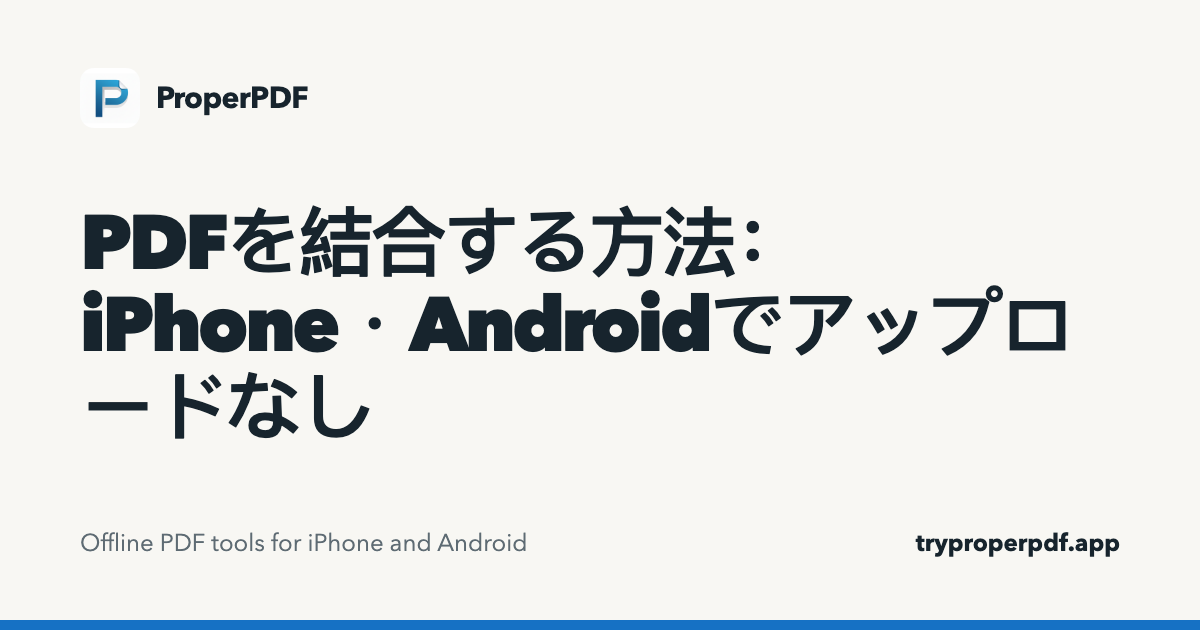
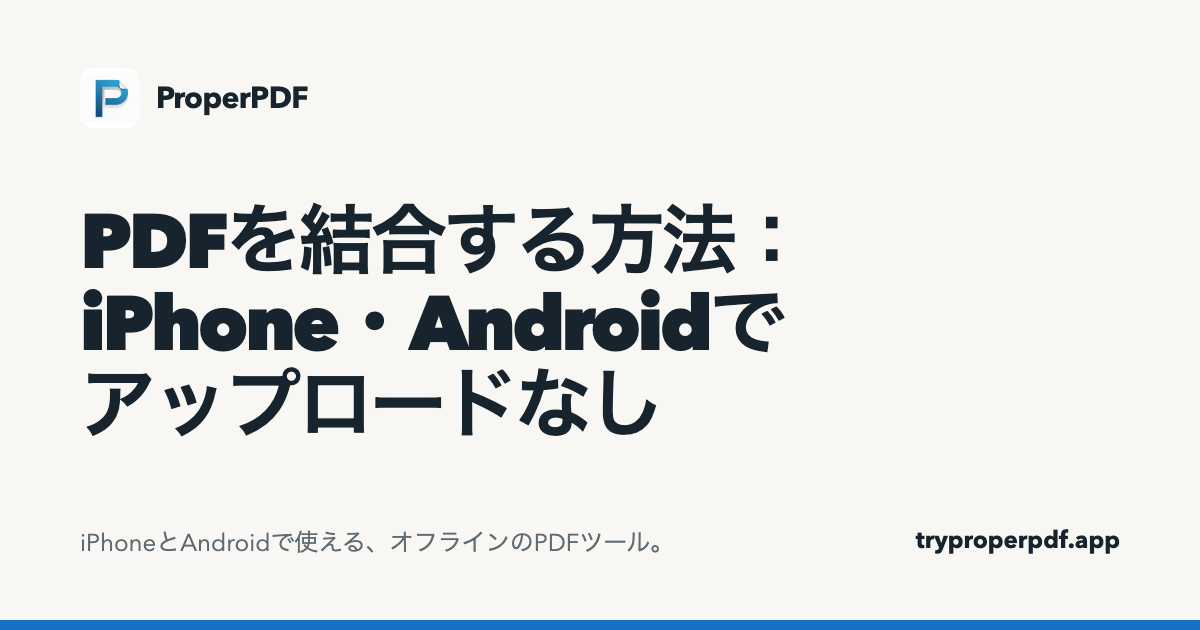
fix: localized share cards wrap at phrase boundaries and use the page's language

diff --git a/scripts/og_images.py b/scripts/og_images.py
@@ -21,21 +21,24 @@ PUBLIC = ROOT / "public"
 OUT = PUBLIC / "og"
 BROWSER = os.environ.get("OG_BROWSER", "/Applications/Microsoft Edge.app/Contents/MacOS/Microsoft Edge")
 ICON = (PUBLIC / "assets" / "icon.png").as_uri()
+# Card language and tagline per translated folder, from i18n/<code>.json.
+LANGS = {path.stem: ({"pt-br": "pt-BR"}.get(path.stem, path.stem), json.loads(path.read_text(encoding="utf-8"))["ui"]["footer_tagline"])
+         for path in (ROOT / "i18n").glob("*.json") if path.stem != "en"}
 
-TEMPLATE = """<!doctype html><html><head><meta charset="utf-8"><style>
+TEMPLATE = """<!doctype html><html lang="{lang}"><head><meta charset="utf-8"><style>
 html,body{{margin:0;width:1200px;height:630px;overflow:hidden}}
 body{{background:#f8f7f3;color:#17242d;font-family:'Avenir Next','Segoe UI',system-ui,sans-serif;
   display:flex;flex-direction:column;justify-content:space-between;padding:68px 80px 60px;box-sizing:border-box;
   border-bottom:10px solid #1671c4}}
 .brand{{display:flex;align-items:center;gap:16px;font-size:30px;font-weight:700;letter-spacing:-.02em}}
 .brand img{{width:60px;height:60px;border-radius:14px}}
-h1{{margin:0;font-size:{size}px;line-height:1.08;letter-spacing:-.045em;font-weight:800;max-width:1000px}}
+h1{{word-break:auto-phrase;text-wrap:balance;margin:0;font-size:{size}px;line-height:1.08;letter-spacing:-.045em;font-weight:800;max-width:1000px}}
 .foot{{display:flex;justify-content:space-between;font-size:24px;color:#5e6b73}}
 .foot strong{{color:#17242d;font-weight:700}}
 </style></head><body>
 <div class="brand"><img src="{icon}" alt=""><span>ProperPDF</span></div>
 <h1>{title}</h1>
-<div class="foot"><span>Offline PDF tools for iPhone and Android</span><strong>tryproperpdf.app</strong></div>
+<div class="foot"><span>{tagline}</span><strong>tryproperpdf.app</strong></div>
 </body></html>"""
 
 
@@ -46,7 +49,9 @@ def font_size(title: str) -> int:
 def render(slug: str, title: str, workdir: Path) -> None:
     page = workdir / f"{slug.replace('/', '_')}.html"
     (OUT / slug).parent.mkdir(parents=True, exist_ok=True)
-    page.write_text(TEMPLATE.format(title=escape(title), size=font_size(title), icon=ICON), encoding="utf-8")
+    code = slug.split("/")[0] if "/" in slug else "en"
+    lang, tagline = LANGS.get(code, ("en", "Offline PDF tools for iPhone and Android"))
+    page.write_text(TEMPLATE.format(title=escape(title), size=font_size(title), icon=ICON, lang=lang, tagline=escape(tagline)), encoding="utf-8")
     subprocess.run([BROWSER, "--headless=new", "--disable-gpu", "--hide-scrollbars", f"--user-data-dir={workdir / 'profile'}",
                     "--window-size=1200,630", "--force-device-scale-factor=1", f"--screenshot={OUT / (slug + '.png')}", page.as_uri()],
                    check=True, stdout=subprocess.DEVNULL, stderr=subprocess.DEVNULL, timeout=60)
